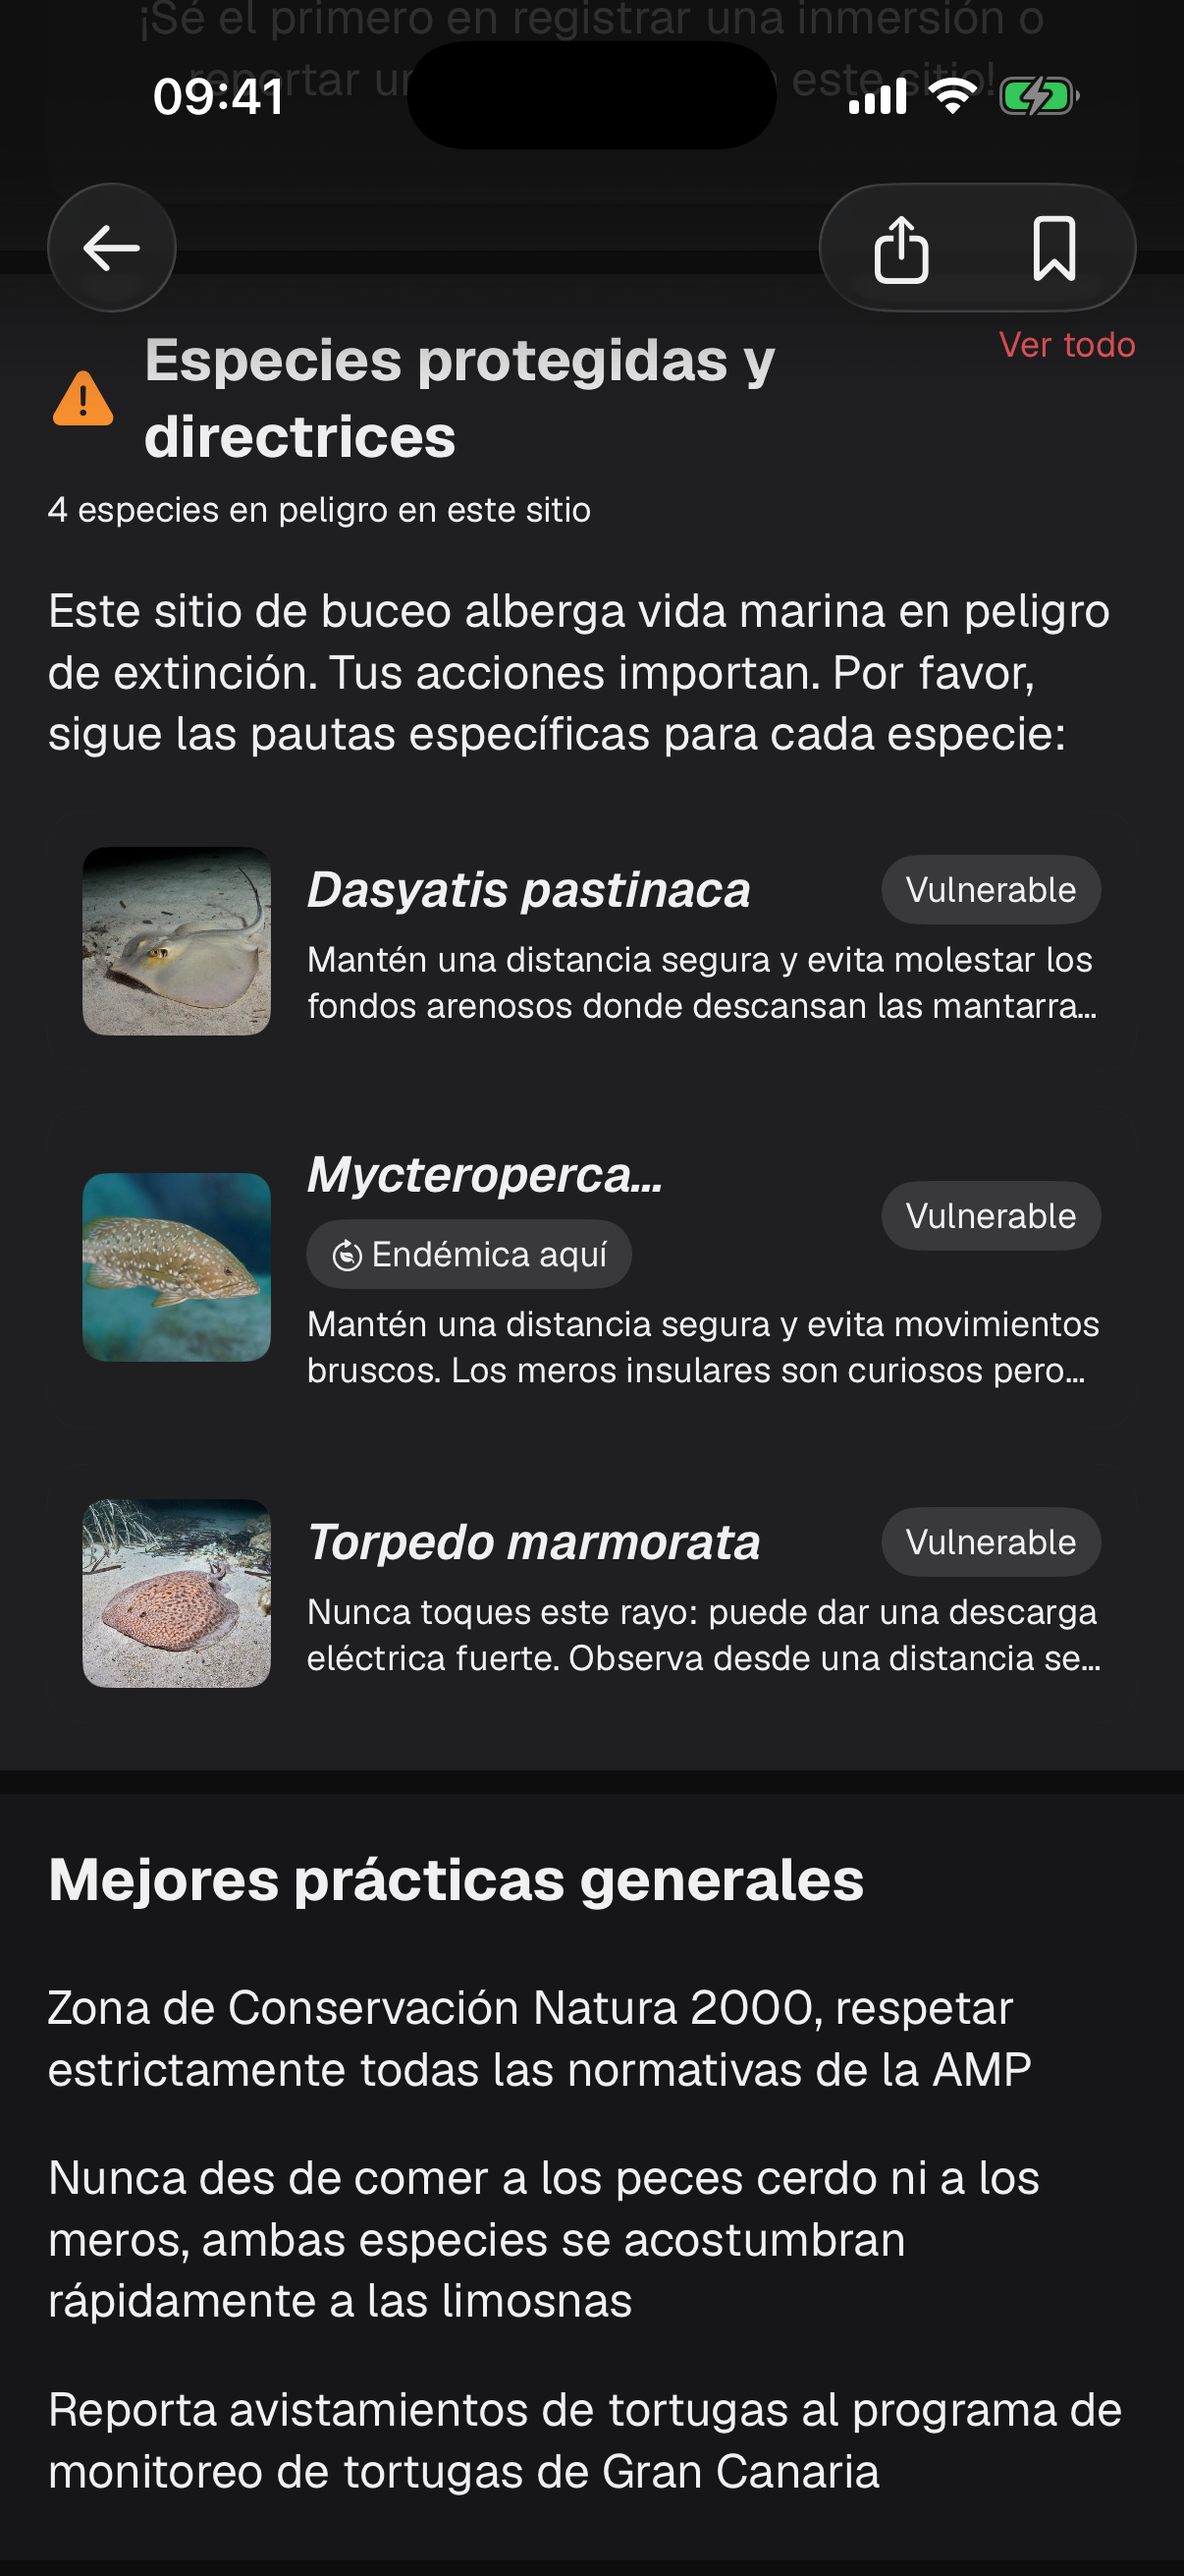
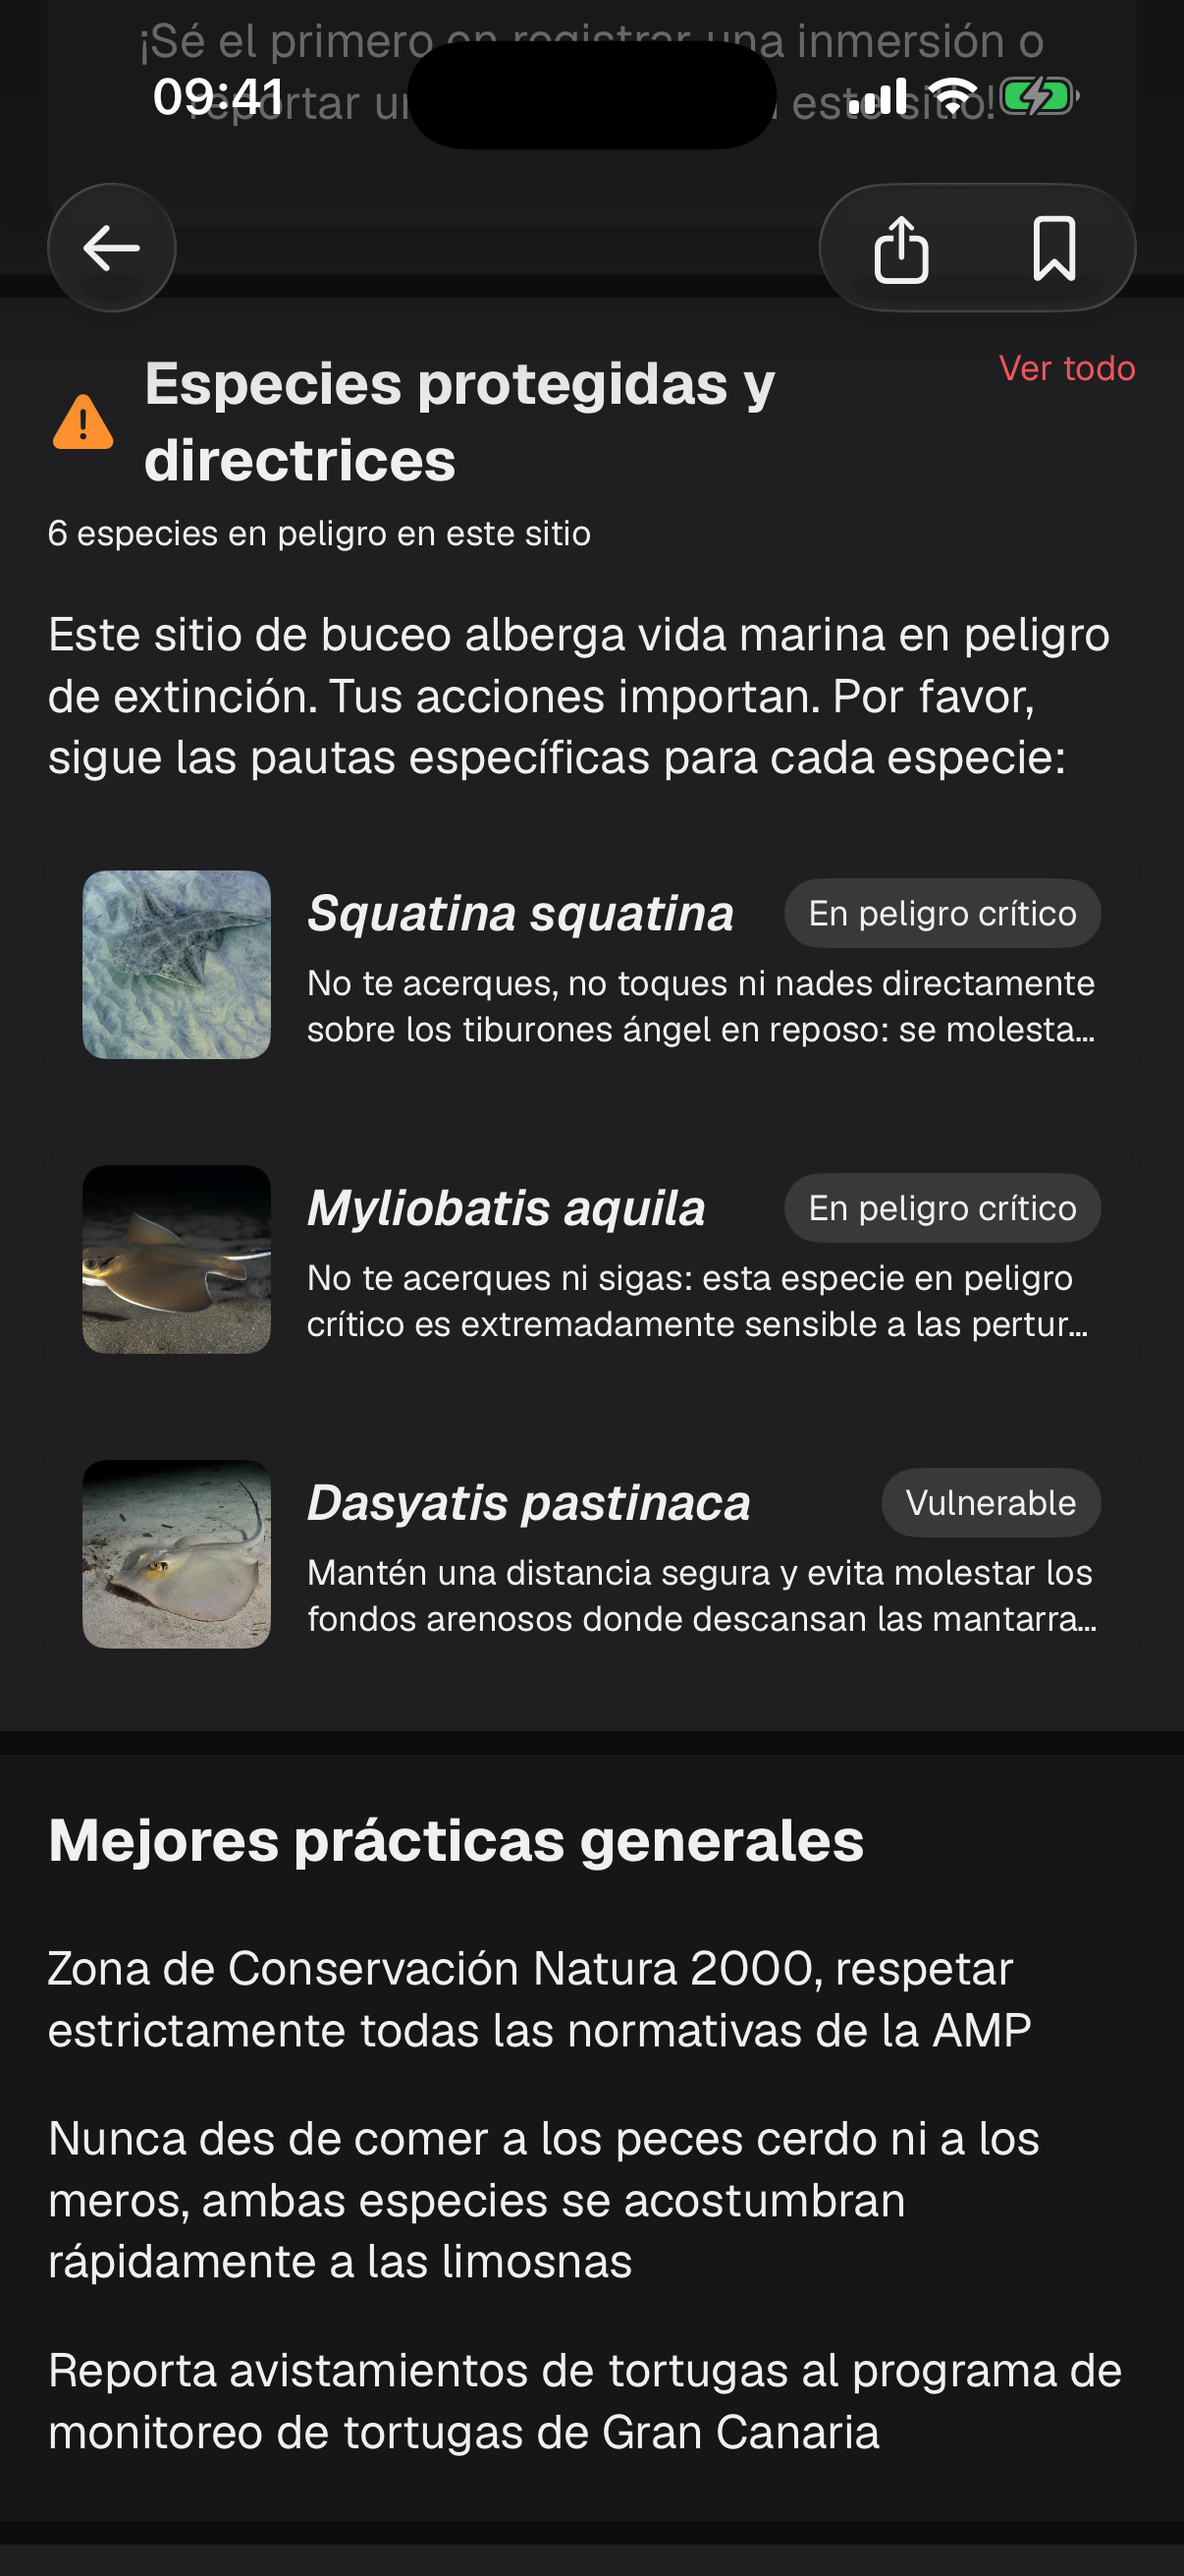
feat(home): Spanish Antes screen with all six threatened species
Taken after the backend IUCN status fix; proof crop moves with the new framing.

diff --git a/landing/site.css b/landing/site.css
@@ -643,7 +643,7 @@ footer { padding: 32px 48px; border-top: 0.5px solid rgba(255,255,255,0.04); dis
   .stage-screen { position: absolute; inset: 0; width: 100%; height: 100%; object-fit: cover; object-position: top; opacity: 0; transition: opacity 0.3s ease; }
   .stage-proof { position: absolute; height: auto; border-radius: 10px; opacity: 0; transform: none; transition: opacity 0.3s ease 0.15s, transform 0.5s var(--ease-out) 0.15s, box-shadow 0.5s var(--ease-out) 0.15s; pointer-events: none; }
   /* Proof crops sit on the exact pixels of their screen (1206x2622 frame). */
-  .proof-site { left: 5.31%; top: 31.43%; width: 89.39%; }
+  .proof-site { left: 5.31%; top: 32.34%; width: 89.39%; }
   html[lang="en"] .proof-site, html[lang="fr"] .proof-site { top: 32.99%; }
   .proof-dive { left: 3.90%; top: 48.32%; width: 92.29%; border-radius: 18px; }
   .proof-plan { left: 1.66%; top: 33.33%; width: 96.68%; }
